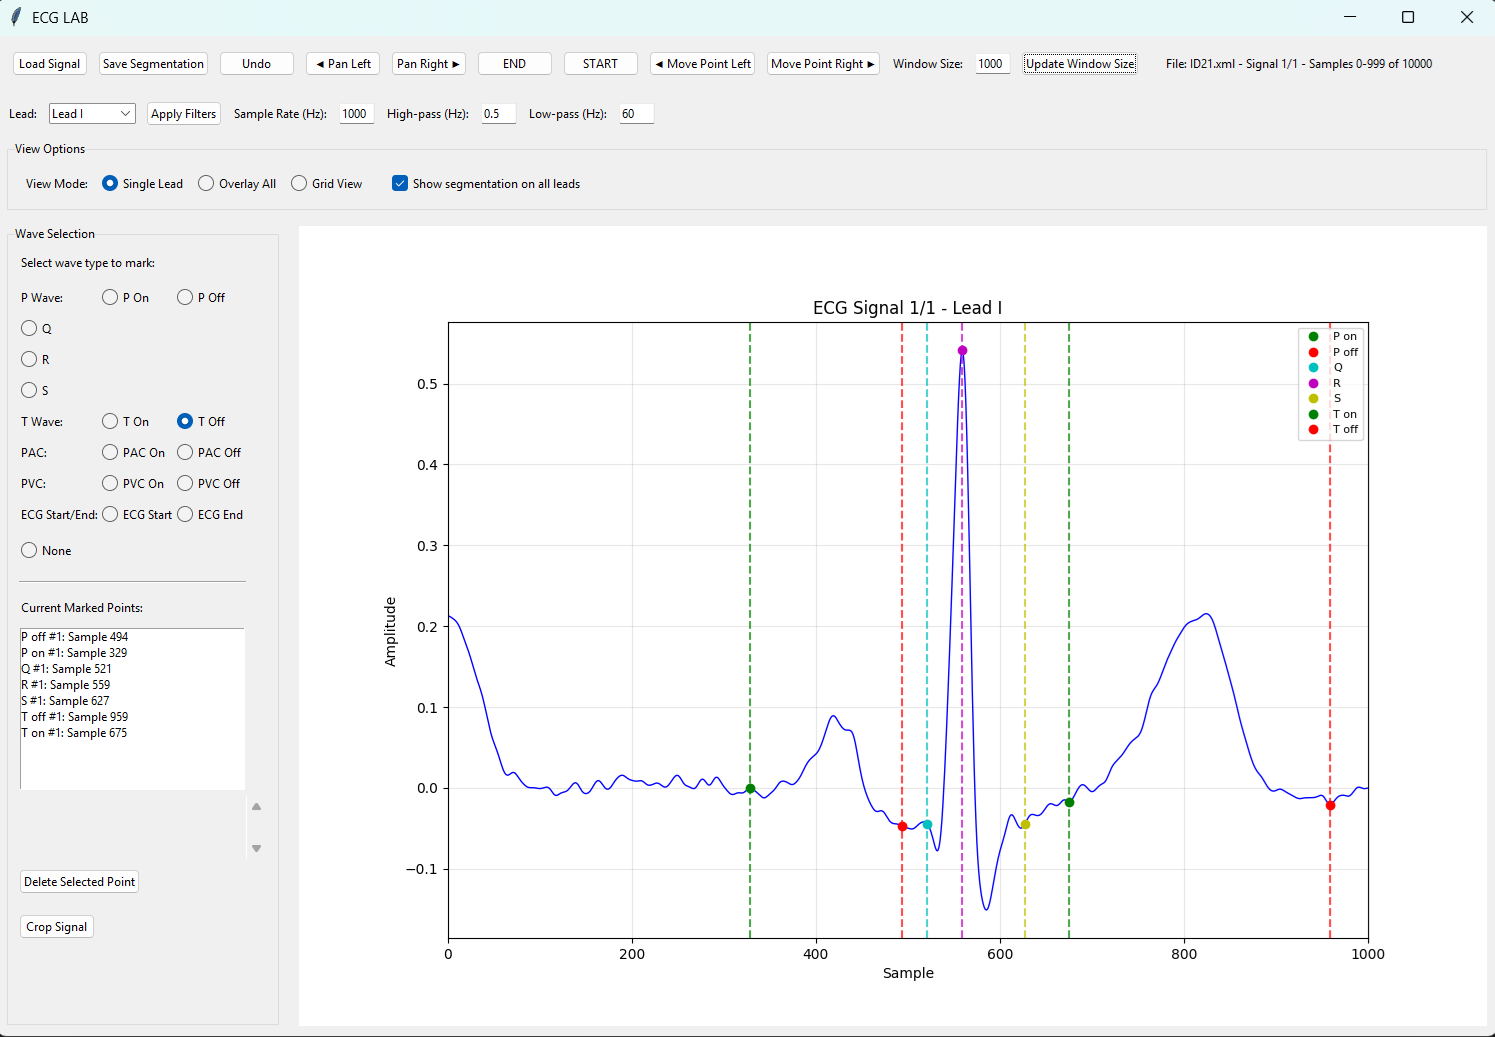
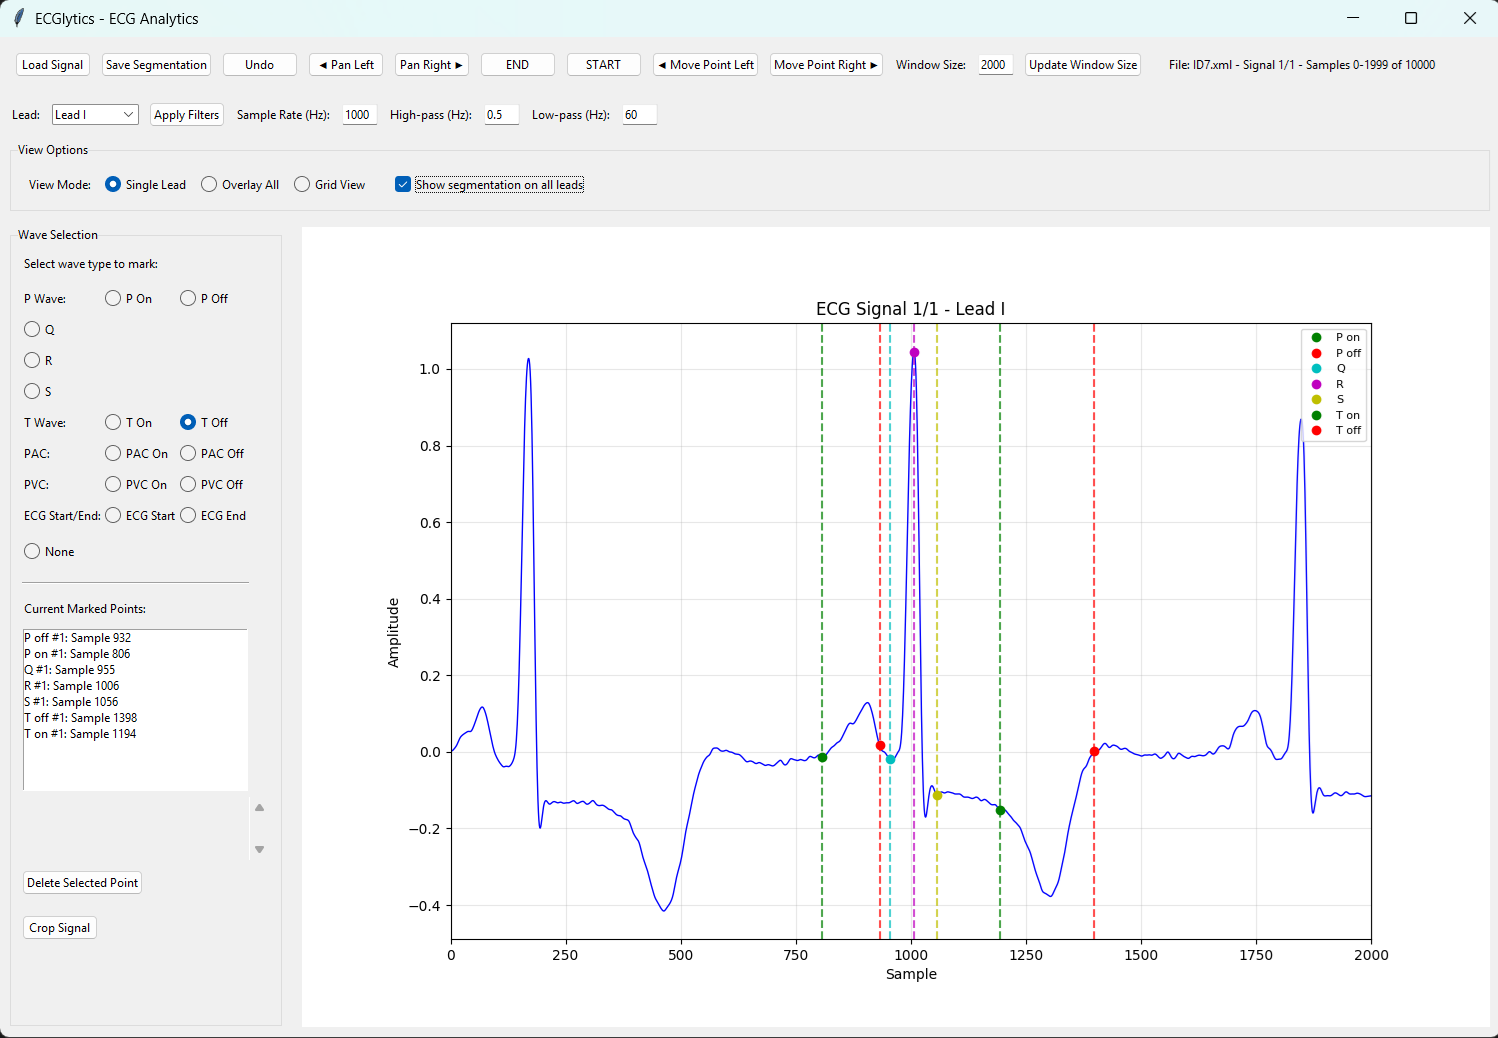
name changing

diff --git a/ECGlytics.py b/ECGlytics.py
@@ -9,10 +9,10 @@ from xml_parser import mortaraXMLPARSER, GEXMLparser
 import scipy.io
 
 
-class ECGLabApp:
+class ECGlyticsApp:
     def __init__(self, root):
         self.root = root
-        self.root.title("ECG LAB")
+        self.root.title("ECGlytics - ECG Analytics")
         self.root.geometry("1500x1000")
 
         # Variables to store data
@@ -1539,7 +1539,7 @@ class ECGLabApp:
     
 def main():
     root = tk.Tk()
-    app = ECGLabApp(root)
+    app = ECGlyticsApp(root)
     root.mainloop()
 
 
